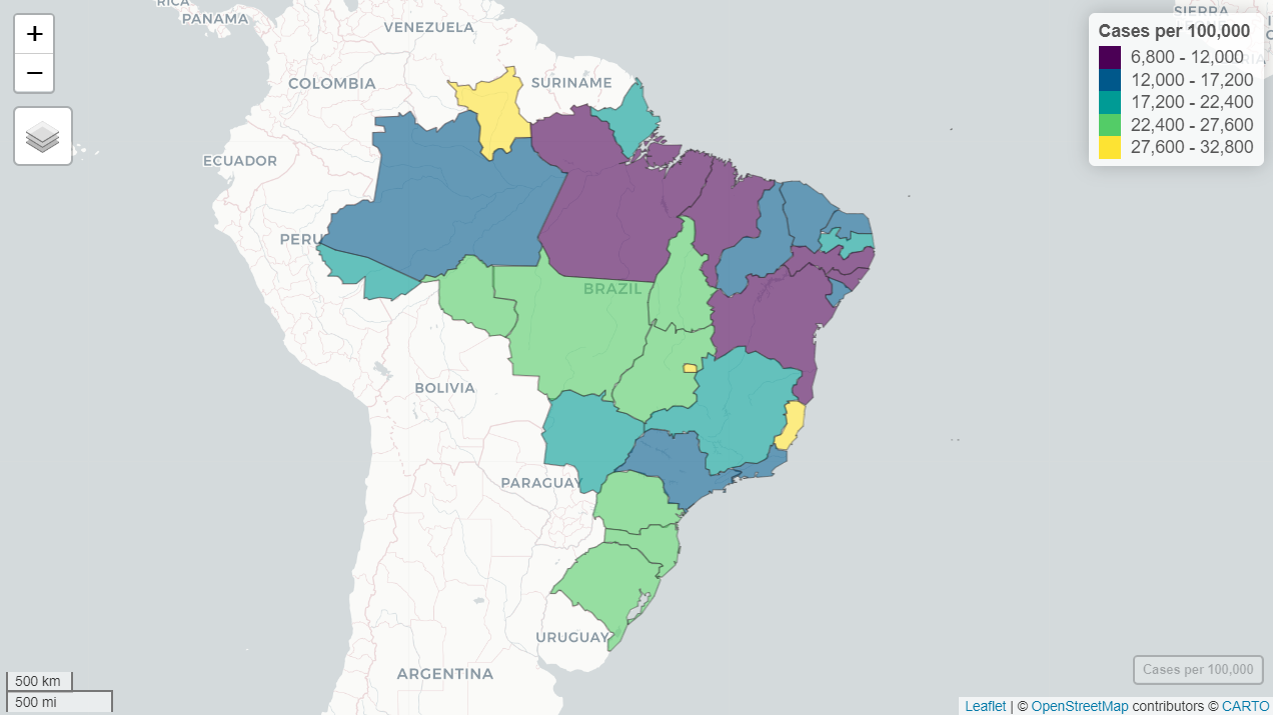
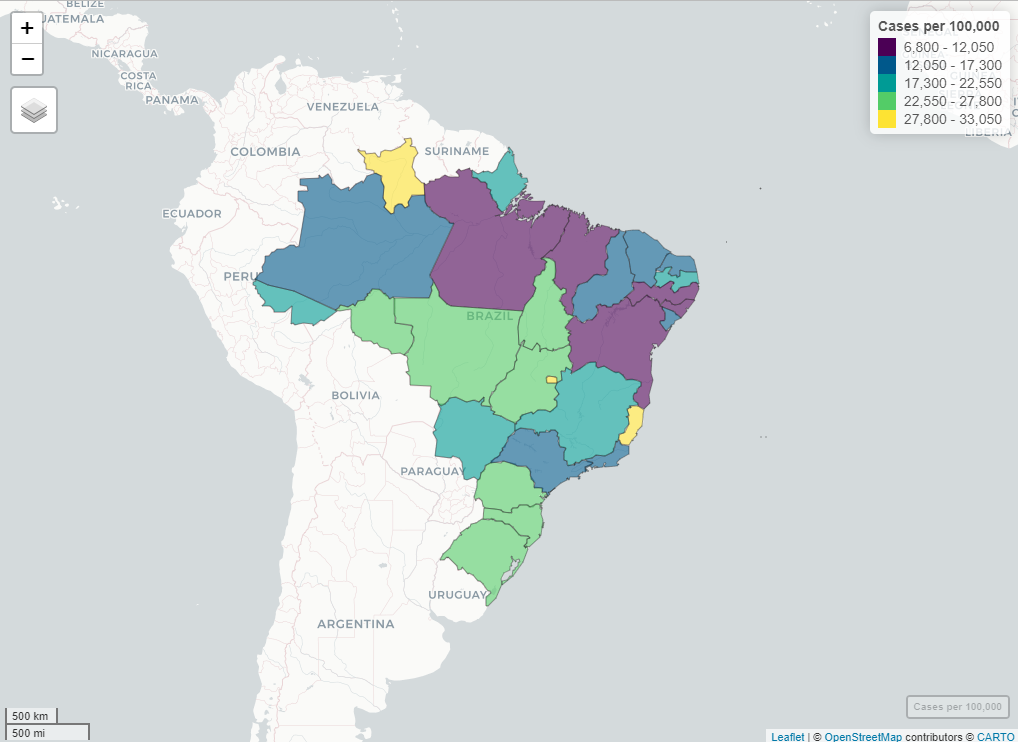
Update README file

diff --git a/README.md b/README.md
@@ -115,7 +115,7 @@ Data source: [Ministerio da Saude - Sistema Unico de Saude
 
 Below is the graph for the number of cases accumulated per 100,000
 inhabitants for each of the five macro-regions in Brazil, information
-until the 2023-01-20.
+until the 2023-01-27.
 
 <img src="man/figures/cases100.png" width="100%" />  
 
@@ -129,7 +129,7 @@ inhabitants for each of the 853 municipalities in the state Minas Gerais
 
 In turn, the next graph shows the number of deaths accumulated in each
 Federative Unit of Brazil per 100,000 inhabitants (data for the day
-2023-01-20).
+2023-01-27).
 
 Data source: [Ministerio da Saude - Sistema Unico de Saude
 (SUS)](https://www.gov.br/saude/pt-br)
